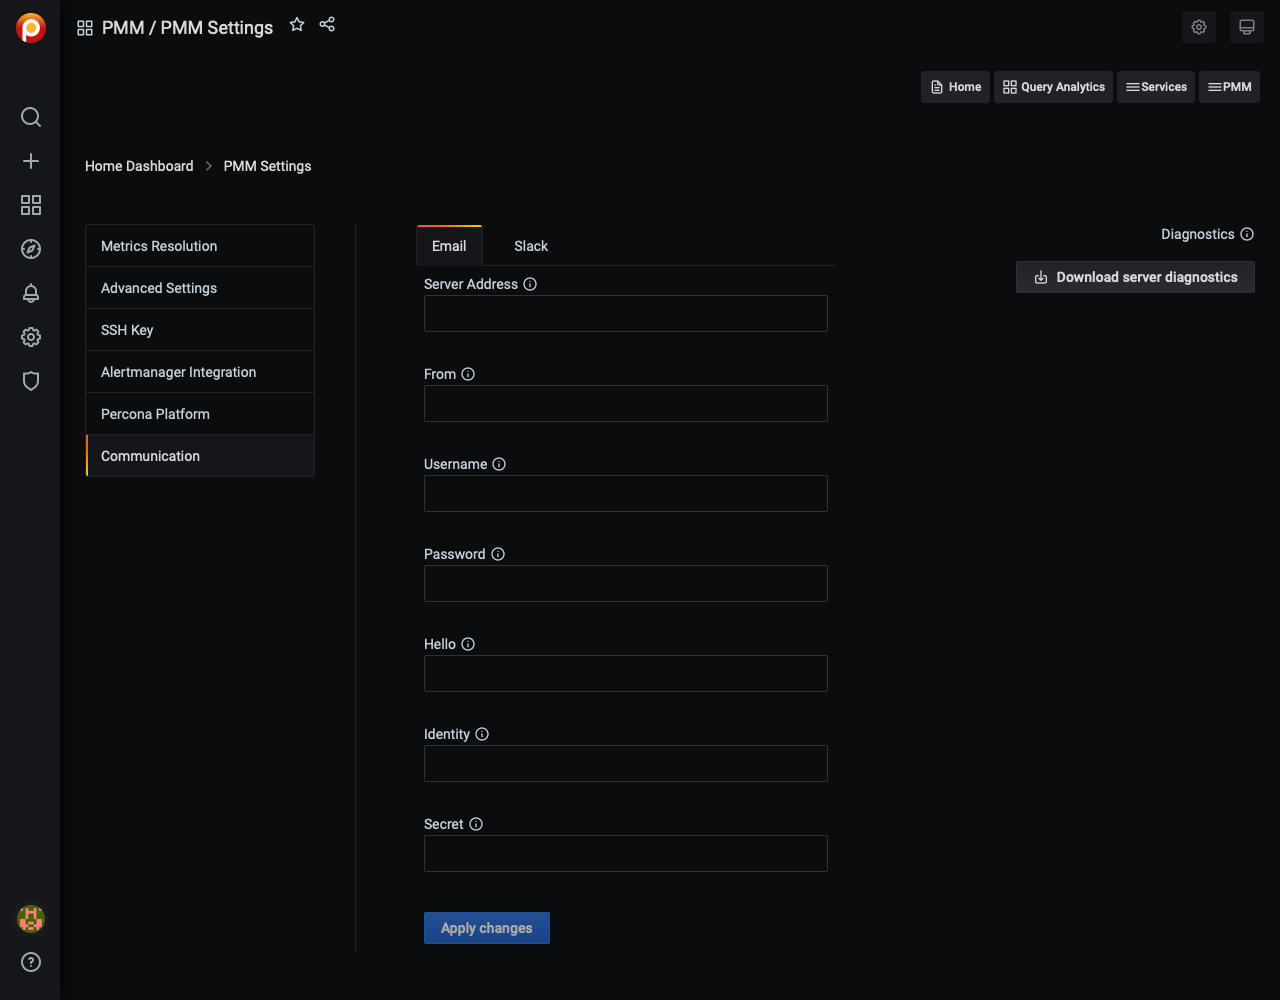
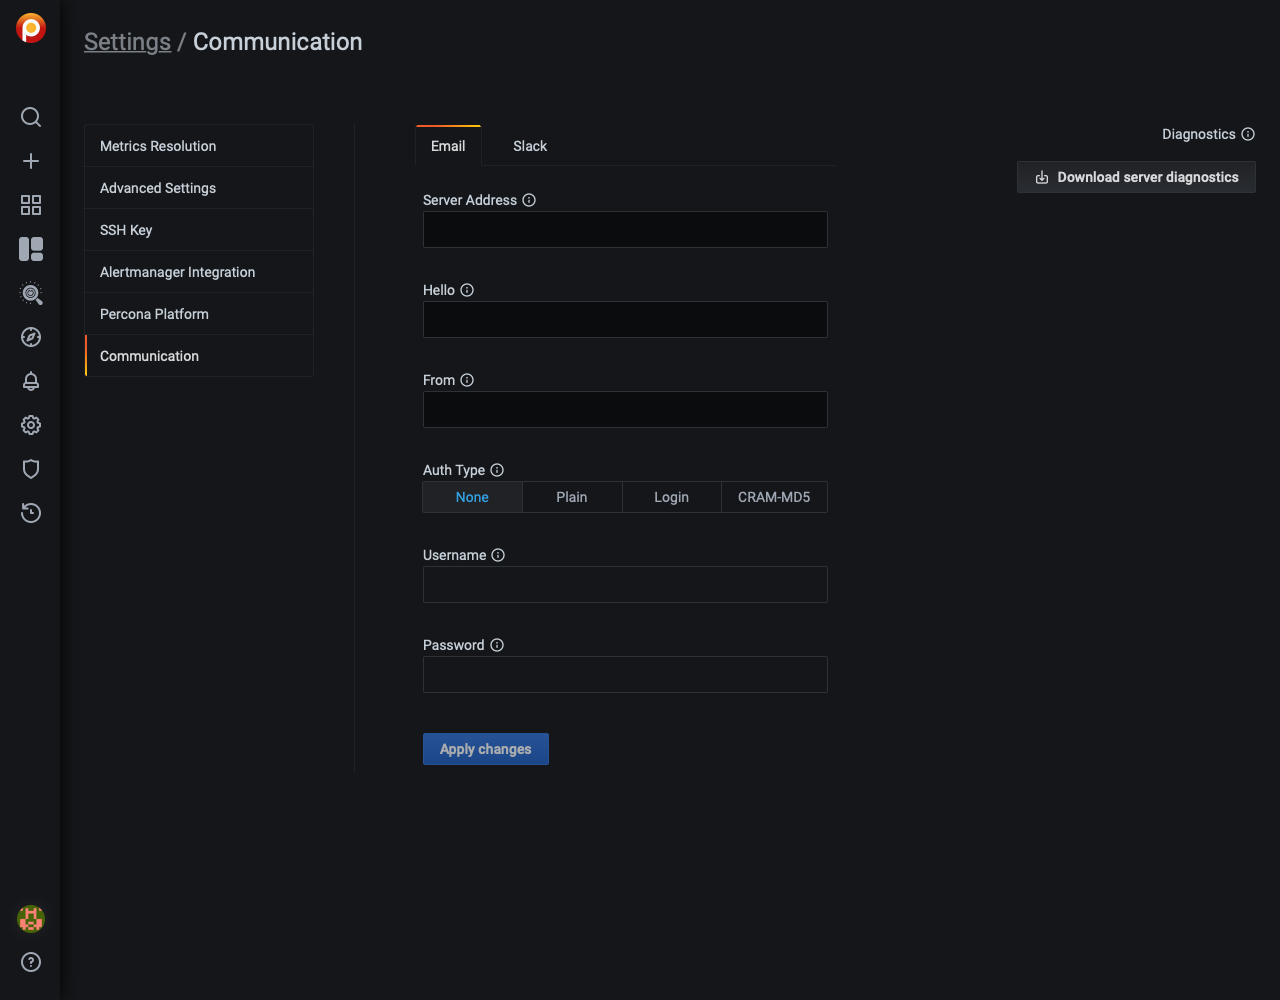
PMM-7492 (#430)
* PMM-7492

* PMM-7492 Review feedback

diff --git a/docs/how-to/configure.md b/docs/how-to/configure.md
@@ -166,28 +166,33 @@ A brief message will confirm the creation of your new account and you may now lo
 
 Global communications settings for [Integrated Alerting](../using/alerting.md).
 
-> This tab appears only when *Advanced Settings* --> *Integrated Alerting* is on.
+> If there is no *Communication* tab, go to the *Advanced Settings* tab and activate *Integrated Alerting*.
 
 ![](../_images/PMM_Settings_Communication.jpg)
 
-Integrated Alerting uses a separate instance of Alertmanager run by `pmm-managed`.
-
-The descriptions for the settings here are reproduced from [Prometheus Alertmanager configuration](https://prometheus.io/docs/alerting/latest/configuration/).
+(Integrated Alerting uses a separate instance of Alertmanager run by `pmm-managed`.)
 
 ### Email
 
 Settings for the SMTP email server:
 
 - *Server Address*: The default SMTP smarthost used for sending emails, including port number.
-- *From*: The default SMTP From header field.
-- *Username*: SMTP Auth using CRAM-MD5, LOGIN and PLAIN.
-- *Password*: SMTP Auth using LOGIN and PLAIN.
 - *Hello*: The default hostname to identify to the SMTP server.
-- *Identity*: SMTP Auth using PLAIN.
-- *Secret*: SMTP Auth using CRAM-MD5.
+- *From*: The sender's email address.
+- *Auth type*: Authentication type. Choose from:
+    - *None*
+    - *Plain*
+    - *Login*
+    - *CRAM-MD5*
+- *Username*: SMTP Auth using CRAM-MD5, LOGIN and PLAIN.
+- *Password*: SMTP Auth using CRAM-MD5, LOGIN and PLAIN.
 
 ### Slack
 
 Settings for Slack notifications:
 
 - *URL*: The Slack webhook URL to use for Slack notifications.
+
+> **See also**
+>
+> [Prometheus Alertmanager configuration](https://prometheus.io/docs/alerting/latest/configuration/)
